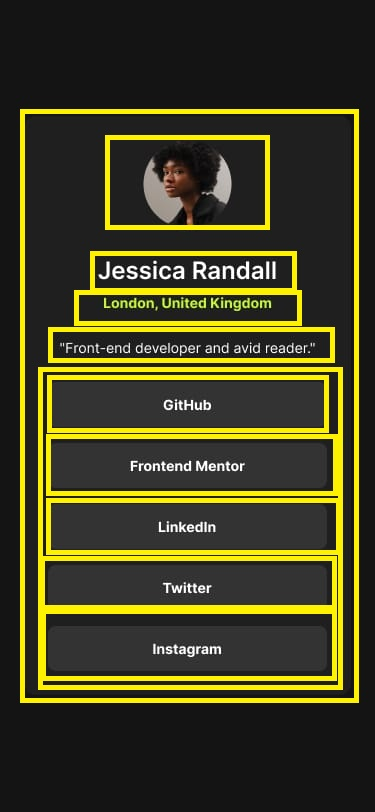
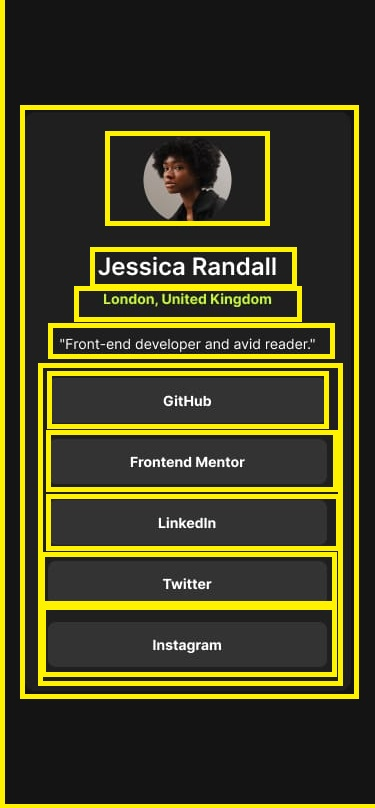
Avance con los estilos

Changed region(s): [[0.0587, 0.1238, 0.968, 0.8663], [0.0, 0.0, 1.0, 1.0]]

diff --git a/index.html b/index.html
@@ -7,6 +7,10 @@
   <link rel="icon" type="image/png" sizes="32x32" href="./assets/images/favicon-32x32.png">
   
   <title>Frontend Mentor | Social links profile</title>
+  <link rel="stylesheet" href="style.css">
+  <link rel="preconnect" href="https://fonts.googleapis.com">
+<link rel="preconnect" href="https://fonts.gstatic.com" crossorigin>
+<link href="https://fonts.googleapis.com/css2?family=Inter:wght@100..900&display=swap" rel="stylesheet">
 
   <!-- Feel free to remove these styles or customise in your own stylesheet 👍 -->
   <style>
@@ -18,7 +22,7 @@
 
   <main>
     <div class="target">
-      <div><img src="/assets/images/avatar-jessica.jpeg" alt="ÇPhoto Jessica"></div>
+      <div class="target__img"><img class="photo" src="/assets/images/avatar-jessica.jpeg" alt="ÇPhoto Jessica"></div>
       <h1 class="target__name">Jessica Randall</h1>
       <h2 class="target__place">London, United Kingdom</h2>
       <p class="target__sentence">"Front-end developer and avid reader."</p>

diff --git a/style.css b/style.css
@@ -1,0 +1,51 @@
+*{
+    box-sizing: border-box;
+}
+
+body{
+    
+    background-color: hsl(0, 0%, 8%);
+    display: flex;
+    height: 100vh;
+    align-items: center;
+    justify-content: center;
+}
+
+.target{
+    display: flex;
+    flex-direction: column;
+    align-items: center;
+    background-color: hsl(0, 0%, 12%);
+    color: hsl(0, 0%, 100%);
+    font-family: "Inter";
+    padding: 2rem 1rem;
+    
+}
+
+.target__img{
+    display: flex;
+    justify-content: center;
+}
+ .photo{
+    border-radius: 50%;
+}
+
+.target__name{
+    font-weight: 400; 
+}
+
+ .target__place{
+    color: yellow;
+    font-weight: 400;
+ }
+
+.buttons{
+    background-color: hsl(0, 0%, 20%);
+    padding: 10px 120px;
+    border-radius: 5%;
+    margin-top: 10px;
+    text-align: center;
+} 
+
+ 
+
